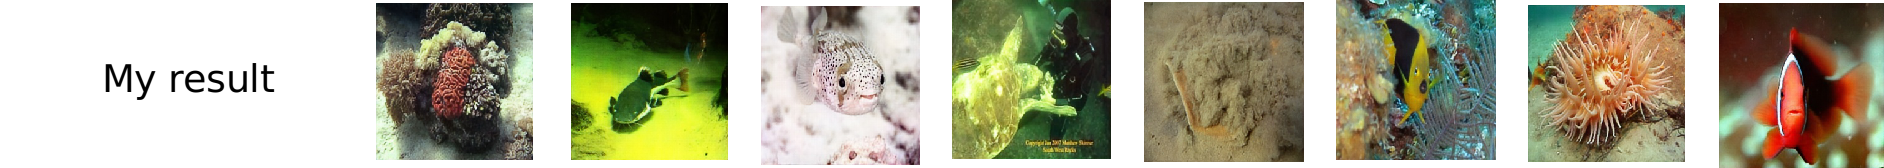
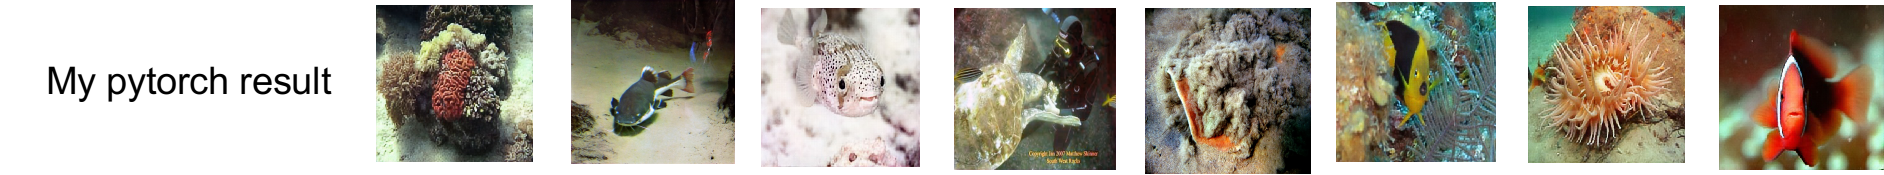
update the codes and results

diff --git a/eval_folder.py b/eval_folder.py
@@ -15,7 +15,6 @@ args = parser.parse_args()
 
 if __name__ == "__main__":
     netG = GeneratorNet().cuda()
-#     netG = netG.eval()
     with torch.no_grad():
         checkpoint = torch.load(args.checkpoint)
         netG.load_state_dict(checkpoint)
@@ -24,7 +23,7 @@ if __name__ == "__main__":
         for img_name in os.listdir(img_folder):
             img_path = os.path.join(img_folder,img_name)
             img = cv2.imread(img_path)
-            img = cv2.resize(img,(256,256))
+            img = cv2.resize(img,(512,512))
             img_tensor = img2tensor(img)
             output_tensor = netG.forward(img_tensor)
             output_img = tensor2img(output_tensor)

diff --git a/eval_one.py b/eval_one.py
@@ -13,7 +13,6 @@ args = parser.parse_args()
 
 if __name__ == "__main__":
     netG = GeneratorNet().cuda()
-#     netG = netG.eval()
     with torch.no_grad():
         checkpoint = torch.load(args.checkpoint)
         netG.load_state_dict(checkpoint)
